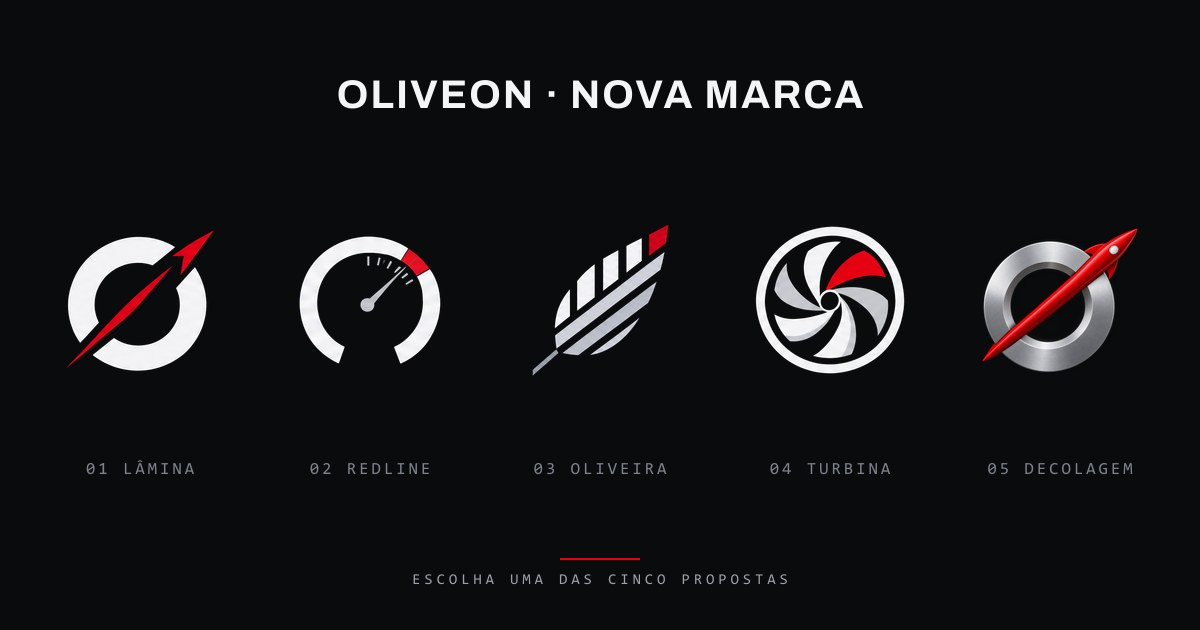
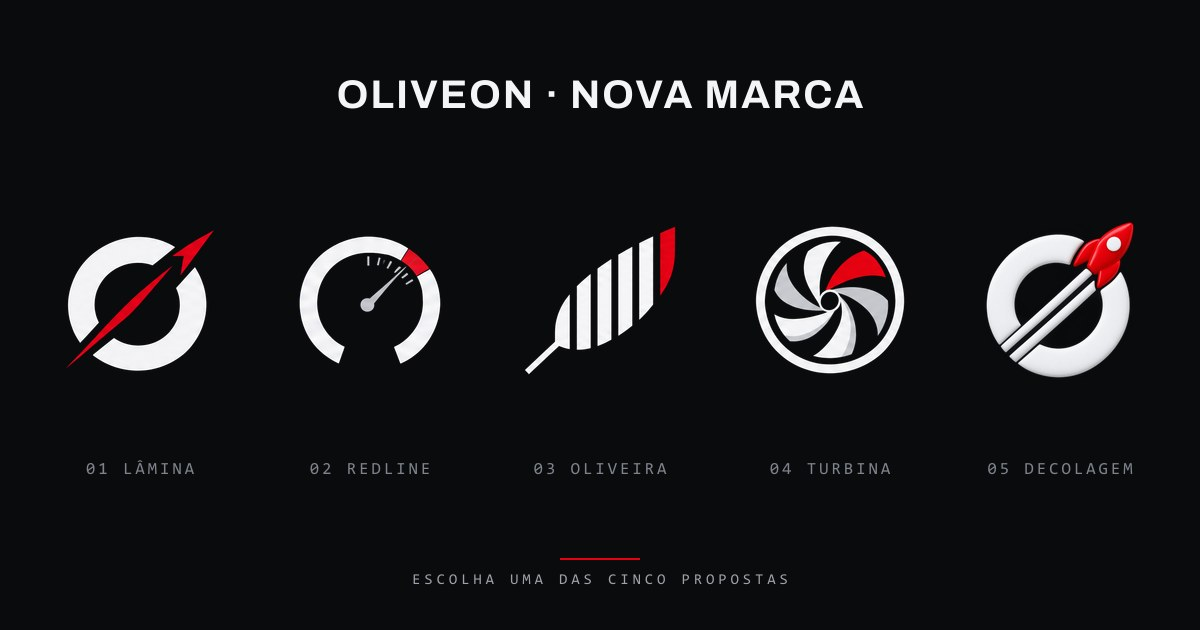
Nova marca: Oliveira com construção consistente e Decolagem em 3D branco, sem prata

Changed region(s): [[0.8017, 0.3317, 0.9558, 0.6032], [0.4317, 0.3619, 0.5858, 0.6032]]

diff --git a/nova-marca/index.html b/nova-marca/index.html
@@ -263,7 +263,7 @@ body[data-fundo="claro"] .palco img.neg{opacity:0}
     <div class="recomenda">
       <span class="rot">Leitura da direção de arte</span>
       <h3>Nossa recomendação: 04 Turbina</h3>
-      <p>É a que se explica sozinha para quem anuncia: no Brasil, impulsionar é "turbinar", e o símbolo mostra o serviço da agência girando no máximo, com uma forma que nenhuma agência do setor usa. Se a prioridade for uma história de marca mais autoral, a 03 Oliveira, que nasce do próprio nome. Se for não perder o reconhecimento de quem já conhece a OLIVEON, a 05 Decolagem é a transição mais natural: mantém o anel cortado na diagonal e o ar 3D da marca atual, agora com foguete e acabamento moderno (a 01 Lâmina faz a mesma ponte em versão chapada). A 02 Redline comunica "performance" na hora, mas é a que mais se aproxima de ícone pronto.</p>
+      <p>É a que se explica sozinha para quem anuncia: no Brasil, impulsionar é "turbinar", e o símbolo mostra o serviço da agência girando no máximo, com uma forma que nenhuma agência do setor usa. Se a prioridade for uma história de marca mais autoral, a 03 Oliveira, que nasce do próprio nome. Se for não perder o reconhecimento de quem já conhece a OLIVEON, a 05 Decolagem é a transição mais natural: mantém o anel cortado na diagonal e o ar 3D da marca atual, agora com foguete e acabamento branco moderno (a 01 Lâmina faz a mesma ponte em versão chapada). A 02 Redline comunica "performance" na hora, mas é a que mais se aproxima de ícone pronto.</p>
     </div>
     <ul class="passos">
       <li><span>01</span><div><b>Escolha o número da opção</b> (ou diga o que misturar entre elas).</div></li>
@@ -300,12 +300,12 @@ const opcoes = [
     atencao: 'É o caminho mais perto de ícone de banco de imagem. Os riscos do mostrador somem em tamanho pequeno e precisam ser redesenhados na vetorização.',
   },
   {
-    id: 'o3', chave: 'oliveira', n: '03', nome: 'Oliveira', sub: 'A raiz',
-    txt: 'OLIVE-ON: a oliveira vive séculos e cresce sempre. A folha é montada com barras que crescem como um gráfico, e só a ponta é vermelha: o resultado que nasce dos dados. Dá à agência uma história própria, que nenhum concorrente tem.',
+    id: 'o3', chave: 'oliveira2', n: '03', nome: 'Oliveira', sub: 'A raiz',
+    txt: 'OLIVE-ON: a oliveira vive séculos e cresce sempre. A folha nasce de uma regra só: uma amêndoa simétrica a 45°, cortada em barras verticais de mesma largura e mesmo vão. Como a folha está inclinada, o topo das barras sobe como um gráfico de crescimento, e só a ponta é vermelha: o resultado que nasce dos dados. Dá à agência uma história própria, que nenhum concorrente tem.',
     tags: ['Nasce do nome', 'Crescimento que dura', 'Gráfico de barras', 'Vertical'],
-    rascunho: 'r3-1', finais: ['f3-2', 'f3-1'], escolhida: 'f3-2', mocks: ['m3a-1', 'm3b-1'],
-    forte: 'Um símbolo autoral, que nasce do nome, com história para contar em pitch, site e redes.',
-    atencao: 'Folha pode lembrar agro ou sustentabilidade. O grafite, o prata e as barras seguram o lado tecnológico; evitar verde em qualquer peça.',
+    rascunho: 'r7-1', finais: ['f7-1', 'f7-2'], escolhida: 'f7-1', mocks: ['m7a-1', 'm7b-1'],
+    forte: 'Um símbolo autoral, que nasce do nome, com história para contar em pitch, site e redes. Construção rigorosa: todas as barras iguais, uma direção só.',
+    atencao: 'Folha pode lembrar agro ou sustentabilidade. O grafite, o branco e as barras seguram o lado tecnológico; evitar verde em qualquer peça.',
   },
   {
     id: 'o4', chave: 'turbina', n: '04', nome: 'Turbina', sub: 'O motor do tráfego',
@@ -316,14 +316,14 @@ const opcoes = [
     atencao: 'As pás ainda têm tamanhos parecidos. Na vetorização, o crescimento de uma pá para a outra fica mais visível, porque é isso que torna o símbolo único. Em tamanho de ícone de aba, as pás viram um giro e quem segura a leitura são o anel e a pá vermelha.',
   },
   {
-    id: 'o5', chave: 'foguete', n: '05', nome: 'Decolagem', sub: 'O corte da marca virou foguete',
-    txt: 'O símbolo atual da OLIVEON é um O cortado por uma lâmina vermelha. Na 05, a lâmina vira um foguete limpo, sem chama nem estrelas, que atravessa o anel a 45°: de longe continua sendo a marca que o mercado já conhece; de perto, é o crescimento decolando. Nasce em 3D moderno (aço escovado acetinado e vermelho brilhante, luz de estúdio), longe do cromo espelhado de antes, e vem com uma versão chapada para uma cor, bordado e ícone pequeno.',
-    tags: ['3D moderno', 'Continuidade da marca atual', 'Foguete clean', 'Versão chapada inclusa'],
-    rascunho: 'r6-1', finais: ['f6-2', 'f6-1'], escolhida: 'f6-2', mocks: ['m6a-1', 'm6b-1'],
-    rotulos: ['3D · fundo escuro', '3D · fundo claro', 'Chapada · uma cor', 'Símbolo 3D'],
-    legendas: { 'm6b-1': 'Recepção · escultura 3D' },
-    forte: 'A transição mais natural: mantém o anel cortado na diagonal e o vermelho que já são da OLIVEON, e o 3D ganha função (o foguete passa pelo O). Na parede, vira escultura.',
-    atencao: 'Foguete é comum em marketing; aqui ele se sustenta por estar preso ao O da marca. O 3D é para tela, vídeo e ambiente. Impresso em uma cor, bordado e ícone de aba usam a versão chapada (o quadro vermelho e a aba do navegador acima). Na vetorização, deixar mais evidente o foguete passando por dentro do anel.',
+    id: 'o5', chave: 'foguete2', n: '05', nome: 'Decolagem', sub: 'O foguete sai do O',
+    txt: 'O O de OLIVEON vira a plataforma de lançamento: um foguete vermelho, compacto e limpo, sai do anel a 45°, e o rastro dele corta o O em duas linhas, como o corte diagonal que a marca já tem. Em 3D branco fosco, com acabamento de ícone premium e o vermelho da marca, sem nenhum metal. Vem com uma versão chapada para fundo claro, impressão em uma cor, bordado e ícone pequeno.',
+    tags: ['3D branco', 'Foguete saindo do O', 'Rastro em espaço negativo', 'Versão chapada inclusa'],
+    rascunho: 'r8-1', finais: ['f8-2', 'f8-1'], escolhida: 'f8-2', mocks: ['m8a-1', 'm8b-1'],
+    rotulos: ['3D · fundo escuro', 'Chapada · fundo claro', 'Chapada · uma cor', 'Símbolo 3D'],
+    legendas: { 'm8b-1': 'Recepção · escultura 3D' },
+    forte: 'Leitura imediata de crescimento e lançamento, com o corte diagonal que a OLIVEON já tem. O 3D branco funciona em tela, vídeo e na parede, onde vira escultura.',
+    atencao: 'Foguete é um símbolo comum em marketing; aqui ele se sustenta por nascer de dentro do O da marca. O 3D branco brilha no escuro; no fundo claro, em impressos e no ícone de aba entra a versão chapada, com o anel grafite.',
   },
 ];
 
